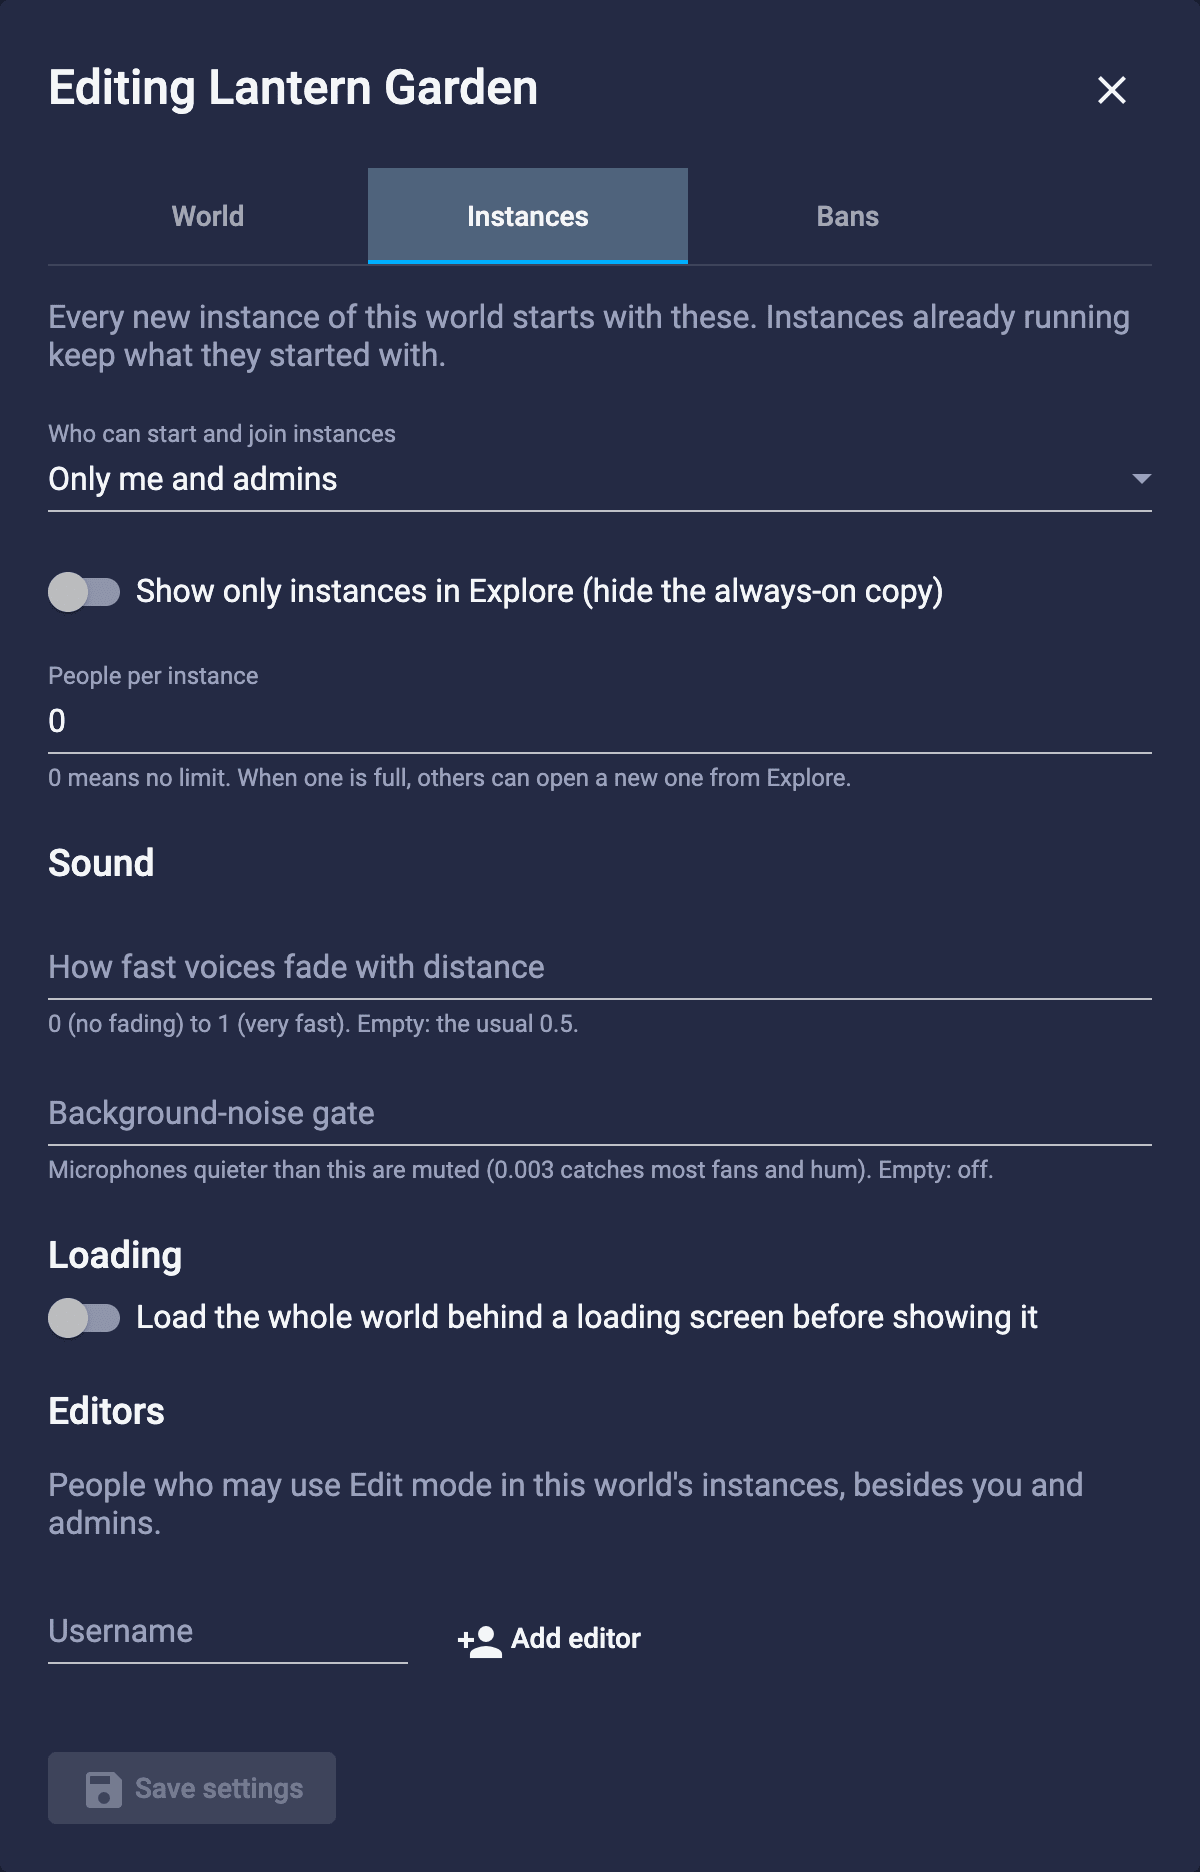
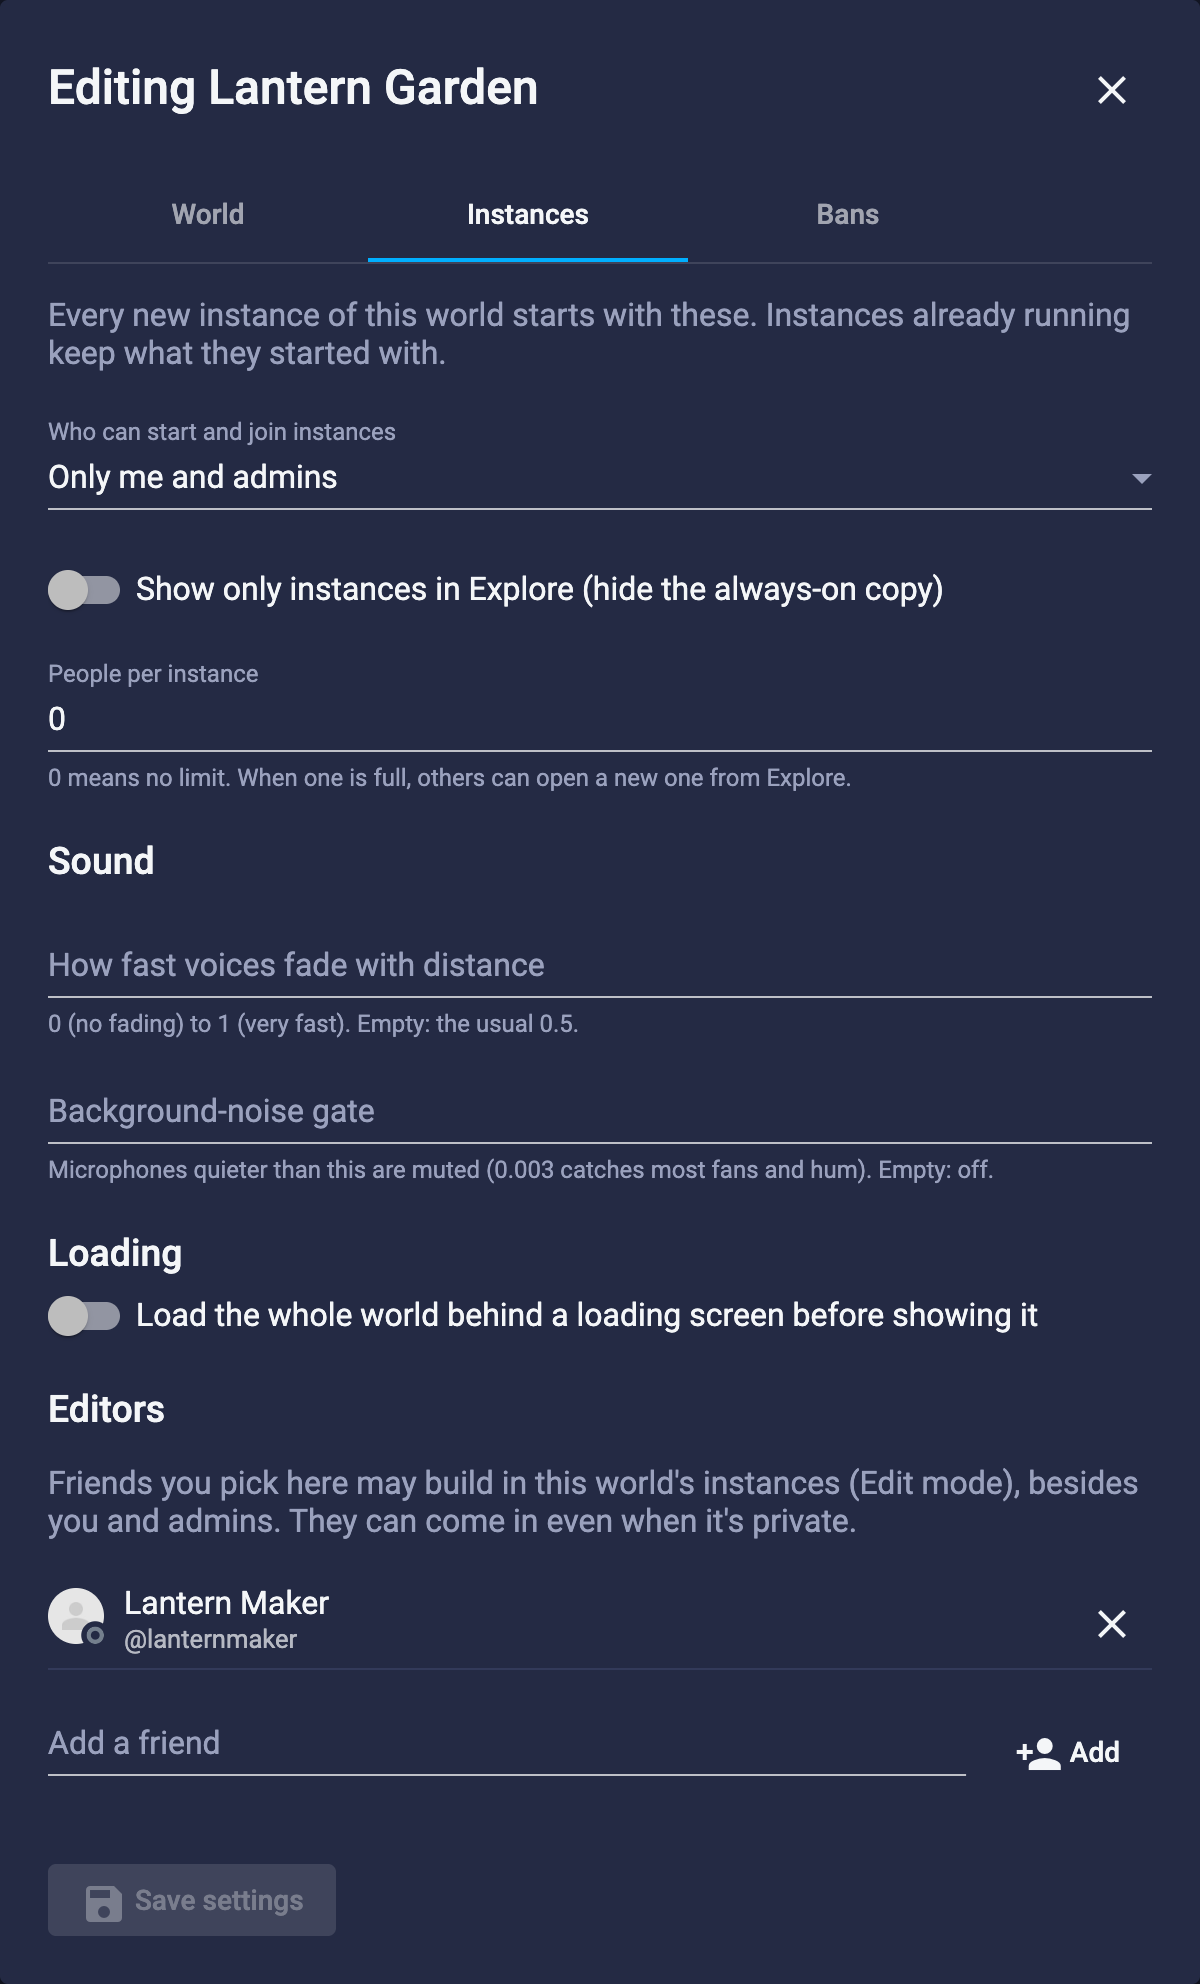
Put up a world, Editors: metaverse's pictures (test account pathfinder, test world Lantern Garden, test friends): a new world-instances.png with the Add a friend box, and the Editors list open
Claude-Session: https://claude.ai/code/session_01EQKP5es6cHTNkjCX8qEwWs

diff --git a/worlds/put-up-a-world.md b/worlds/put-up-a-world.md
@@ -98,11 +98,14 @@ Come back, change things and save as often as you like.
 - **Your world is edited in one instance at a time.** If someone is already changing it in another instance,
   Darkride tells you who. In the same instance, you and your Editors can build together.
 - **Others can build with you.** On darkride.ai, open **My Worlds**, click your world's **Edit details** and go to
-  **Instances**. Under **Editors**, click **Add a friend** and pick a friend from the list (type part of their name
-  to narrow it). For someone who isn't your friend, type their username and click **Add**. Then click **Save
-  settings**. A world can have up to 50 Editors. Editors can always come in, but for now Explore shows them your world only if it's open to
-  **Everyone signed in** (or to **My friends** and they're your friends). Send them your instance's link
+  **Instances**. Under **Editors**, click **Add a friend** and pick a friend from the list (type part of their name to
+  narrow it). For someone who isn't your friend, type their username and click **Add**. Then click **Save settings**.
+  A world can have up to 50 Editors. Editors can always come in, but for now Explore shows them your world only if
+  it's open to **Everyone signed in** (or to **My friends** and they're your friends). Send them your instance's link
   ([section 7](#_7-invite-your-friends)).
+
+  <img src="./images/world-editors-picker.png" width="600" alt="A world's Editors: one editor added, and the Add a friend list open with three friends">
+
 - **What runs on Darkride's servers:**
   - Scripts that run in each visitor's app work as usual. A world's scripts load only from web addresses (http or
     https), the world's own files (`atp:`) or Darkride's file hosting (`tea:`), or are written into the object itself.
